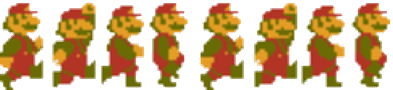
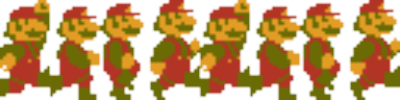
블럭부서지면 아이템 내려오는거 구현 및 이미지 수정(40%)

diff --git a/mario.py b/mario.py
@@ -26,10 +26,11 @@ FRAMES_PER_ACTION = 8
 history = [] #()현재상태ㅐ,이벤트) 튜플의 리스트
 LEFT_DOWN,RIGHT_DOWN,LEFT_UP,RIGHT_UP,JUMP_DOWN,JUMP_END,SPACE,LEVELUP = range(8)
 event_name = 'LEFT_DOWN', 'RIGHT_DOWN', 'LEFT_UP', 'RIGHT_UP', 'JUMP_DOWN','JUMP_UP','JUMP_END','SPACE','LEVEL_UP'
-Run_Img_code = 'mario_run.png','big_mario_run.png','star_run.png'
+Run_Img_code = 'mario_run.png','star_run.png','big_mario_run.png'
 stand_img_code = 'mario_stand.png','mario_kid_star.png','mario_man_star.png'
 
-img_size_list=50,90,50
+img_size_xlist=50,50,50
+img_size_ylist=50,50,100
 stand_img_list = 50,50,90
 key_event_table ={
     (SDL_KEYDOWN,SDLK_a):LEFT_DOWN,
@@ -68,10 +69,10 @@ class IdleState:
 
     def draw(HERO):
         if dir == -1:
-            HERO.image.clip_draw(int(HERO.frame) * 50, 0, 50, 50, HERO.x, HERO.y,img_size_list[HERO.levelcode],img_size_list[HERO.levelcode])
+            HERO.image.clip_draw(int(HERO.frame) * 50, 0, img_size_xlist[HERO.levelcode],img_size_ylist[HERO.levelcode], HERO.x, HERO.y,img_size_xlist[HERO.levelcode],img_size_ylist[HERO.levelcode])
             HERO.lookright = True
         if dir == 1:
-            HERO.image.clip_composite_draw(int(HERO.frame) * 50, 0, 50, 50, 2 * 3.14, 'h', HERO.x, HERO.y, img_size_list[HERO.levelcode], img_size_list[HERO.levelcode])
+            HERO.image.clip_composite_draw(int(HERO.frame) * 50, 0, img_size_xlist[HERO.levelcode],img_size_ylist[HERO.levelcode], 2 * 3.14, 'h', HERO.x, HERO.y, img_size_xlist[HERO.levelcode], img_size_ylist[HERO.levelcode])
             HERO.lookright = False
         if  HERO.Falling == True:
             HERO.frame = 1
@@ -110,10 +111,10 @@ class RunState:
 
     def draw(HERO):
         if dir == -1:
-            HERO.image.clip_draw(int(HERO.frame) * 50, 0, 50, 100, HERO.x, HERO.y,img_size_list[HERO.levelcode],img_size_list[HERO.levelcode])
+            HERO.image.clip_draw(int(HERO.frame) * 50, 0, img_size_xlist[HERO.levelcode],img_size_ylist[HERO.levelcode], HERO.x, HERO.y,img_size_xlist[HERO.levelcode],img_size_ylist[HERO.levelcode])
             HERO.lookright = True
         if dir == 1:
-            HERO.image.clip_composite_draw(int(HERO.frame) * 50, 0, 50, 100, 2 * 3.14, 'h', HERO.x, HERO.y, img_size_list[HERO.levelcode], img_size_list[HERO.levelcode])
+            HERO.image.clip_composite_draw(int(HERO.frame) * 50, 0, img_size_xlist[HERO.levelcode],img_size_ylist[HERO.levelcode], 2 * 3.14, 'h', HERO.x, HERO.y, img_size_xlist[HERO.levelcode], img_size_ylist[HERO.levelcode])
             HERO.lookright = False
         # if HERO.die == True:
         #     HERO.image2 = load_image('mario_dead.png')
@@ -136,7 +137,7 @@ class HERO:
         self.image2 = load_image('mario_stand.png')
         self.die_image = load_image('mario_dead.png')
         self.x = 400
-        self.y = 62
+        self.y = 68
         self.miny = 62
         self.frame = 0
         self.velocity=0
@@ -190,9 +191,9 @@ class HERO:
         if collision.collide(self,server.se):
             if collision.collidebottom(self,server.se):
                 if self.lookright == False:
-                    self.x -= -2
+                    self.x -= -(RUN_SPEED_PPS/30)
                 else:
-                    self.x += -2
+                    self.x += -(RUN_SPEED_PPS/30)
             else:
                 self.set_parent(server.se)
                 self.Falling = False
@@ -201,13 +202,14 @@ class HERO:
         else:
             if self.parent == server.se and collision.gravity(self,server.se):
                 self.parent=None
-        #몬스터 충돌체크
-        if collision.collide(self,server.mon):
-            if collision.collidebottom(self,server.mon):
-                self.die = True
-                print("die")
-            if self.Falling == True:
-                server.mon.x = 1000
+        for mon in server.mon:
+            #몬스터 충돌체크
+            if collision.collide(self,mon):
+                if collision.collidebottom(self,mon) and mon.die != True:
+                    self.die = True
+                    print("die")
+                if self.Falling == True:
+                    mon.die = True
         if self.Falling == True:
             self.frame = 1
             self.y -= JUMP_SPEED_PPS

diff --git a/background.py b/background.py
@@ -93,14 +93,12 @@ class sewer:
             self.x = -50
     def draw(self):
         self.image.clip_draw(1165,140,142,140,self.x,self.y)
-        draw_rectangle(*self.get_top_bb())
-        draw_rectangle(*self.get_bottom_bb())
     def get_bb(self):
         return self.x - 71, self.y-70, self.x + 71, self.y + 70
     def get_top_bb(self):
-        return self.x - 71, self.y+50, self.x + 71, self.y + 70
+        return self.x - 71, self.y+60, self.x + 71, self.y + 70
     def get_bottom_bb(self):
-        return self.x - 71, self.y-70, self.x + 71, self.y+50
+        return self.x - 71, self.y-70, self.x + 71, self.y+60
 
 class FLOWER:
     def __init__(self,x,y,block):
@@ -113,15 +111,15 @@ class FLOWER:
     def update(self):
         self.x += (mario.dir/2)
         self.frame = (self.frame + FRAMES_PER_ACTION * ACTION_PER_TIME * game_framework.frame_time) % 4
-        if self.y < self.endy:
+        if self.y < self.endy and self.x == self.parent.getXpos():
             self.y += OBJ_SPEED_PPS * game_framework.frame_time
-            print(self.endy, self.y)
         if collision.collide(server.hero,self) or self.x < -100 or self.x > 1100:
             self.parent.make = False
             game_world.remove_object(self)
+        if self.x != self.parent.getXpos():
+            self.y -= OBJ_SPEED_PPS * game_framework.frame_time*2
     def draw(self):
         self.image.clip_draw(25*int(self.frame),0,25,25,self.x,self.y,50,50)
-        draw_rectangle(*self.get_bb())
     def get_bb(self):
         return self.x - 25,self.y - 25,self.x + 25 , self.y + 25
 
@@ -136,14 +134,14 @@ class STAR:
     def update(self):
         self.x += (mario.dir / 2)
         self.frame = (self.frame + FRAMES_PER_ACTION * ACTION_PER_TIME * game_framework.frame_time) % 4
-        if self.y < self.endy:
+        if self.y < self.endy and self.x == self.parent.getXpos():
             self.y += OBJ_SPEED_PPS * game_framework.frame_time
-            print(self.endy,self.y)
-        if collision.collide(server.hero,self) or self.x < -100 or self.x > 1100:
-            self.parent.make=False
+        if collision.collide(server.hero, self) or self.x < -100 or self.x > 1100:
+            self.parent.make = False
             game_world.remove_object(self)
+        if self.x != self.parent.getXpos():
+            self.y -= OBJ_SPEED_PPS * game_framework.frame_time*2
     def draw(self):
         self.image.clip_draw(25*int(self.frame),0,25,29,self.x,self.y,50,50)
-        draw_rectangle(*self.get_bb())
     def get_bb(self):
         return self.x - 25,self.y - 25,self.x + 25 , self.y + 25

diff --git a/monster.py b/monster.py
@@ -1,6 +1,9 @@
+import random
+
 from pico2d import *
 
 import collision
+import game_world
 import mario
 import game_framework
 import server
@@ -16,23 +19,30 @@ TIME_PER_ACTION = 0.5
 ACTION_PER_TIME = 1.0 /TIME_PER_ACTION
 FRAMES_PER_ACTION = 2
 class Monster:
-    def __init__(self):
+    def __init__(self,x):
         self.image = load_image('sprite.png')
-        self.x = 700
+        self.x = x
         self.y = 62
         self.frame = 0
-        self.dir = 1
+        self.dir = -1
+        self.die = False
     def update(self):
-        self.frame = (self.frame+FRAMES_PER_ACTION*ACTION_PER_TIME*game_framework.frame_time)%2
-        self.x -= (self.dir)-RUN_SPEED_PPS
-        if collision.collide(self,server.se):
-            pass
+        if self.die == False:
+            self.frame = (self.frame+FRAMES_PER_ACTION*ACTION_PER_TIME*game_framework.frame_time)%2
+            self.x += (self.dir)-RUN_SPEED_PPS
+            if collision.collide(self,server.se):
+                pass
+        else:
+            self.y -= RUN_SPEED_PPS*2
+            if self.y <0:
+                self.initialize()
     def draw(self):
-        self.image.clip_draw(int(self.frame) * 80, 0, 80, 80, self.x, self.y)
+        if self.die == True:
+            self.image.clip_composite_draw(80, 0, 80, 80, 2 * 3.14, 'v', self.x, self.y,80,80)
+        else:
+            self.image.clip_draw(int(self.frame) * 80, 0, 80, 80, self.x, self.y)
         if self.x <=-100:
             self.x=1000
-        draw_rectangle(*self.get_top_bb())
-        draw_rectangle(*self.get_bottom_bb())
 
     def get_bb(self):
         return self.x -20, self.y - 28, self.x + 40, self.y + 44
@@ -41,3 +51,7 @@ class Monster:
         return self.x - 20, self.y+30, self.x + 40, self.y + 40
     def get_bottom_bb(self):
         return self.x - 20, self.y+30, self.x + 40, self.y-32
+    def initialize(self):
+        self.die = False
+        self.x = random.randint(700,1000)
+        self.y=62

diff --git a/block.py b/block.py
@@ -11,16 +11,17 @@ from background import FLOWER
 TIME_PER_ACTION = 1.0
 ACTION_PER_TIME = 1.0 /TIME_PER_ACTION
 FRAMES_PER_ACTION = 3
-ypos_list = [250,400]
+ypos_list = [200,300]
 
 class BLOCK:
     BOY_X0, BOY_Y0 = -20, 60
     def __init__(self,xpos):
         self.x = xpos
-        self.y = 250
+        self.y = 200
         self.image = load_image('sprite.png')
         self.image2= load_image('itembox.png')
-        self.life = 3
+        self.image3= load_image('emptyblock.png')
+        self.life = 2
         self.code = 1 #블럭 종류 판별
         self.make = False
         self.frame = 0
@@ -47,10 +48,10 @@ class BLOCK:
     def draw(self):
         if self.code == 0:
             self.image.clip_draw(950, 500, 60, 53, self.x, self.y)
-        else:
+        elif self.code == 1:
             self.image2.clip_draw(33*int(self.frame),0,32,35,self.x,self.y,60,60)
-        draw_rectangle(*self.get_top_bb())
-        draw_rectangle(*self.get_bottom_bb())
+        elif self.code == 2:
+            self.image3.clip_draw(0, 0, 35, 35, self.x, self.y,60,60)
     def get_bb(self):
         return self.x -30, self.y - 26, self.x + 30, self.y + 26
     def get_top_bb(self):
@@ -68,5 +69,7 @@ class BLOCK:
                 server.flower = FLOWER(self.x, self.y,self)
                 game_world.add_object(server.flower, 0)
                 self.make = True
-            self.code=0
+            self.code=2
+    def getXpos(self):
+        return self.x
 

diff --git a/fire.py b/fire.py
@@ -17,7 +17,6 @@ class Fire:
         if Fire.image == None:
             Fire.image = load_image('fire.png')
         self.x, self.y, self.velocity = x, y, velocity*-1
-
     def draw(self):
         self.image.draw(self.x, self.y)
 
@@ -25,10 +24,10 @@ class Fire:
         self.x += self.velocity * game_framework.frame_time*RUN_SPEED_PPS
         if self.x < 25 or self.x > 1600 - 25:
             game_world.remove_object(self)
-        if collision.collide(self,server.mon):
-            server.mon.x = 1000
-            server.mon.dir = -1
-            game_world.remove_object(self)
+        for mon in server.mon:
+            if collision.collide(self,mon) and mon.die != True:
+                mon.die = True
+                game_world.remove_object(self)
 
     def get_bb(self):
         return self.x - 5, self.y - 5, self.x + 5, self.y + 5

diff --git a/main_state.py b/main_state.py
@@ -18,7 +18,7 @@ def enter():
     global hero,mon,cloud,mountain,woods,cs,se,blocks,back,floor
     back = load_image('background.png')
     server.floor = load_image('floor.png')
-    server.mon = Monster()
+    server.mon = [Monster(800),Monster(900),Monster(1000)]
     server.hero = HERO()
 
     server.cloud = CLOUDS()
@@ -32,7 +32,7 @@ def enter():
     game_world.add_object(server.mountain,0)
     game_world.add_object(server.woods,0)
     game_world.add_object(server.floor,0)
-    game_world.add_object(server.mon,1)
+    game_world.add_objects(server.mon,1)
     game_world.add_object(server.hero,1)
     game_world.add_object(server.cs,0)
     game_world.add_object(server.se,0)
